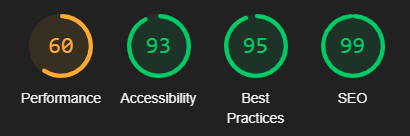
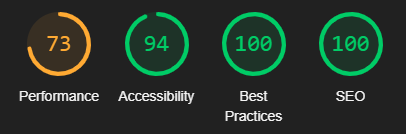
more lighthouse tweaks

diff --git a/core/templates/main_about.html b/core/templates/main_about.html
@@ -437,12 +437,11 @@
 				<!-- SEO -->
 				<li class="my-4"><img src="{{ url_for('static', filename='img/about-icons/lighthouse-logo.png')}}"
 				                      width=45 alt="Lighthouse Logo">
-					Google's Chrome browser has an amazing developer tool, built in, called
+					Site Optimisation. Google's Chrome browser has an amazing built in developer tool, called
 					<a href="https://developer.chrome.com/docs/lighthouse/overview/">
-						<i class="fa fa-external-link fa-2xs"></i>  <strong>Lighthouse</strong>
-					</a>, which will scan any website
-					(your own or someone else's) and analyse it for quality of structure. It can't tell if the content
-					is any good, but it can tell you if the site is well designed and implemented from a HTML point
+						<i class="fa fa-external-link fa-2xs"></i>  <strong>Lighthouse</strong>,
+					</a>which will scan any website and analyse it for quality of structure. It can't tell if the content
+					is any good, but it can tell you if the site is well-designed and implemented from a HTML point
 					of view. It can also tell you how easy it is for search engines to understand your site when they
 					are crawling it (discovering the content).
 					<br>
@@ -456,7 +455,6 @@
 					<br>Some work to be done shrinking image sizes for faster loads on low quality mobile connections.
 					
 				</li>
-				
 				
 			</ul>
 			

diff --git a/core/templates/base.html b/core/templates/base.html
@@ -268,7 +268,8 @@
 							<li class="nav-item">
 								<a class="nav-link" href="{{ url_for('admin_page') }}">
 									<i class="fa-solid fa-envelope fa-bounce fa-xl"
-									   style=" --fa-bounce-start-scale-x: 1; --fa-bounce-start-scale-y: 1; --fa-bounce-jump-scale-x: 1; --fa-bounce-jump-scale-y: 1; --fa-bounce-land-scale-x: 1; --fa-bounce-land-scale-y: 1; --fa-bounce-rebound: 0;" ></i>
+									   style=" --fa-bounce-start-scale-x: 1; --fa-bounce-start-scale-y: 1; --fa-bounce-jump-scale-x: 1; --fa-bounce-jump-scale-y: 1; --fa-bounce-land-scale-x: 1; --fa-bounce-land-scale-y: 1; --fa-bounce-rebound: 0;"
+									   alt="Mail icon"></i>
 								</a>
 							</li>
 						{% endif %}
